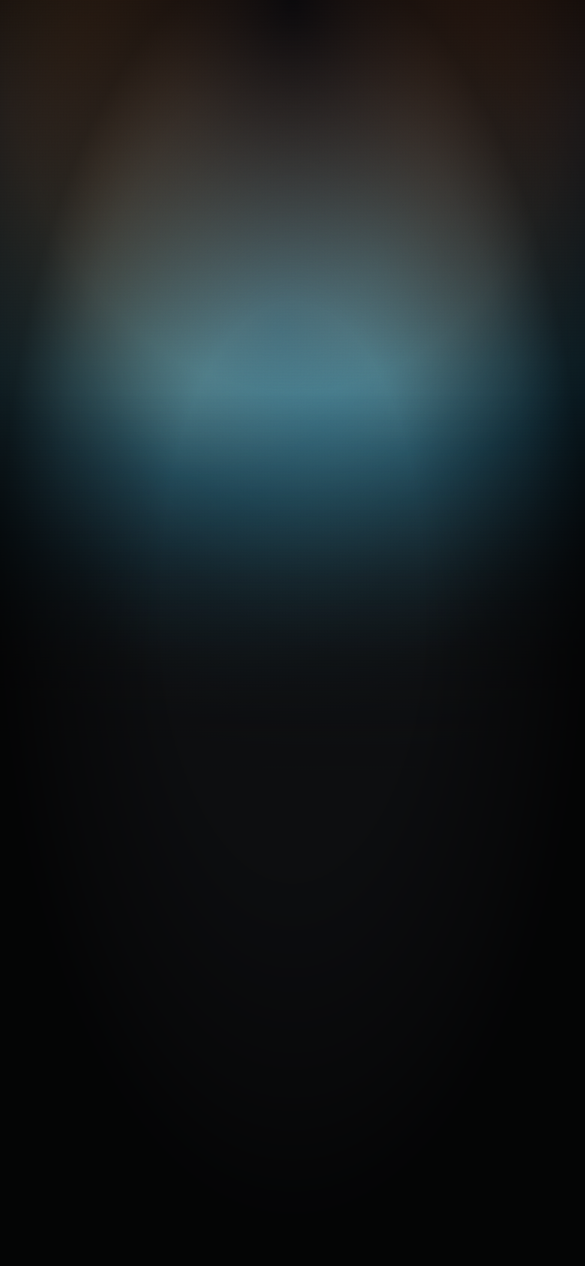
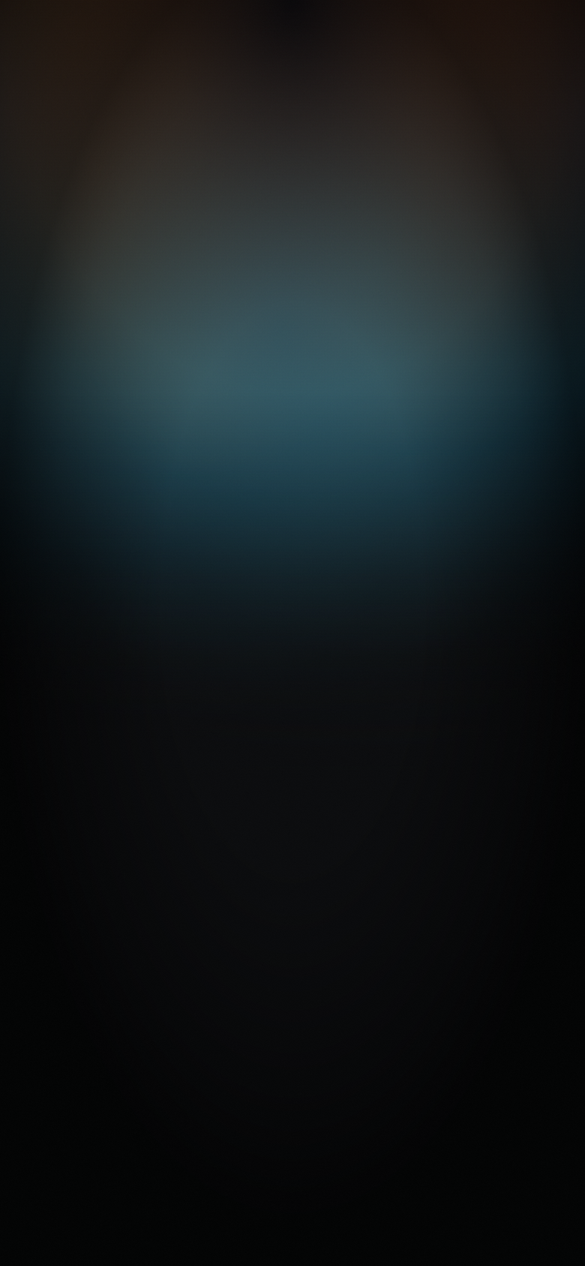
Two skies to choose from: the first, drawn live, and the second, the welcome's picture with its glow turned down; chosen in the profile sheet

Changed region(s): [[0.2154, 0.2156, 0.7692, 0.3697]]

diff --git a/mobile/src/components/Sky.tsx b/mobile/src/components/Sky.tsx
@@ -1,0 +1,105 @@
+import { View, useWindowDimensions } from "react-native";
+import Svg, {
+  Defs,
+  G,
+  LinearGradient,
+  Mask,
+  RadialGradient,
+  Rect,
+  Stop,
+} from "react-native-svg";
+
+/**
+ * The hour the home arrives at.
+ *
+ * A storm closing the top, a break of fire under it, and water below catching what
+ * gets through — eleven lights over one vertical gradient, faded out before it
+ * reaches the cards so they sit on the room rather than on the picture. It is the
+ * same set of gradients the web paints, drawn here as rectangles because React
+ * Native has no radial gradient of its own.
+ *
+ * The fade is applied to all of it at once rather than to each layer. Masking them
+ * one by one compounds: every layer gets faded, and wherever two overlap the fade
+ * multiplies, so the whole picture came out washed and flat — which is exactly what
+ * it looked like.
+ *
+ * Only three screens wear it: the home, the wallet and the accounts screen. They are
+ * places you arrive at rather than work in, and the cards sit badly on flat charcoal.
+ */
+
+/** cx, cy, rx, ry as fractions of the band; CSS states width and height, so these halve. */
+const LIGHTS: { cx: number; cy: number; rx: number; ry: number; rgb: string; a: number }[] = [
+  /* cloud edges catching the light */
+  { cx: 0.31, cy: 0.11, rx: 0.29, ry: 0.025, rgb: "255,182,104", a: 0.54 },
+  { cx: 0.73, cy: 0.08, rx: 0.21, ry: 0.02, rgb: "255,134,52", a: 0.48 },
+  { cx: 0.54, cy: 0.16, rx: 0.34, ry: 0.02, rgb: "255,104,38", a: 0.34 },
+  { cx: 0.17, cy: 0.21, rx: 0.18, ry: 0.015, rgb: "255,156,76", a: 0.26 },
+  /* the break of fire they sit on */
+  { cx: 0.47, cy: 0.13, rx: 0.44, ry: 0.065, rgb: "255,112,38", a: 0.42 },
+  /* water below, lit where the sky breaks */
+  { cx: 0.64, cy: 0.34, rx: 0.24, ry: 0.04, rgb: "128,214,220", a: 0.3 },
+  { cx: 0.26, cy: 0.43, rx: 0.2, ry: 0.035, rgb: "84,182,202", a: 0.28 },
+  { cx: 0.58, cy: 0.5, rx: 0.28, ry: 0.045, rgb: "96,190,206", a: 0.22 },
+  { cx: 0.48, cy: 0.42, rx: 0.34, ry: 0.1, rgb: "38,118,156", a: 0.46 },
+  /* the storm that closes the top */
+  { cx: 0.5, cy: 0, rx: 0.6, ry: 0.085, rgb: "8,12,22", a: 0.9 },
+];
+
+export default function Sky() {
+  const { height } = useWindowDimensions();
+  const band = height * 0.62;
+
+  return (
+    <View
+      pointerEvents="none"
+      style={{ position: "absolute", top: 0, left: 0, right: 0, height: band }}
+    >
+      <Svg width="100%" height="100%">
+        <Defs>
+          <LinearGradient id="sky-base" x1="0" y1="0" x2="0" y2="1">
+            <Stop offset="0" stopColor="#080d18" />
+            <Stop offset="0.14" stopColor="#16233c" />
+            <Stop offset="0.32" stopColor="#123048" />
+            <Stop offset="0.46" stopColor="#114058" />
+            <Stop offset="0.62" stopColor="#0e2a3a" />
+            <Stop offset="0.84" stopColor="#0D0E10" stopOpacity={0.88} />
+            <Stop offset="1" stopColor="#0D0E10" />
+          </LinearGradient>
+
+          {LIGHTS.map((l, i) => (
+            <RadialGradient
+              key={i}
+              id={`sky${i}`}
+              cx={String(l.cx)}
+              cy={String(l.cy)}
+              rx={String(l.rx)}
+              ry={String(l.ry)}
+            >
+              <Stop offset="0" stopColor={`rgb(${l.rgb})`} stopOpacity={l.a} />
+              <Stop offset="1" stopColor={`rgb(${l.rgb})`} stopOpacity={0} />
+            </RadialGradient>
+          ))}
+
+          {/* It has to be gone before the cards start, or they read as sitting on a
+              photograph rather than in a room. */}
+          <LinearGradient id="sky-fade" x1="0" y1="0" x2="0" y2="1">
+            <Stop offset="0" stopColor="#fff" stopOpacity={1} />
+            <Stop offset="0.5" stopColor="#fff" stopOpacity={1} />
+            <Stop offset="0.74" stopColor="#fff" stopOpacity={0.42} />
+            <Stop offset="1" stopColor="#fff" stopOpacity={0} />
+          </LinearGradient>
+          <Mask id="sky-mask">
+            <Rect x="0" y="0" width="100%" height="100%" fill="url(#sky-fade)" />
+          </Mask>
+        </Defs>
+
+        <G mask="url(#sky-mask)">
+          <Rect x="0" y="0" width="100%" height="100%" fill="url(#sky-base)" />
+          {LIGHTS.map((_, i) => (
+            <Rect key={i} x="0" y="0" width="100%" height="100%" fill={`url(#sky${i})`} />
+          ))}
+        </G>
+      </Svg>
+    </View>
+  );
+}

diff --git a/mobile/src/components/Room.tsx b/mobile/src/components/Room.tsx
@@ -2,16 +2,19 @@ import { type ReactNode } from "react";
 import { View, type ViewStyle } from "react-native";
 import Svg, { Defs, RadialGradient, Rect, Stop } from "react-native-svg";
 import { Image } from "expo-image";
+import Sky from "~/components/Sky";
+import { useSkyModel } from "~/lib/skyModel";
 import { GROUND, GROUND_LIT } from "~/theme/tokens";
 
 /**
- * The hour the home arrives at, as a picture.
+ * The second sky: the hour as a picture.
  *
- * It was eleven radial lights, a mask and a vignette drawn live, and a phone did not
- * draw them the way the web does: the welcome looked one way in the browser and
+ * The first is eleven radial lights, a mask and a vignette drawn live, and a phone did
+ * not draw them the way the web does: the welcome looked one way in the browser and
  * another in the hand. This is that same drawing, taken once from the web and fixed,
- * so every phone shows the same sky. It already carries its own vignette, which is
- * why the sky screens draw none over it.
+ * so every phone shows the same sky, with its brightest part held back a little so
+ * cards passing over the glow do not change under it. It already carries its own
+ * vignette, which is why it is drawn without the one the first sky needs.
  */
 // eslint-disable-next-line @typescript-eslint/no-require-imports
 const HOUR = require("../../assets/sky.png") as number;
@@ -59,14 +62,17 @@ export default function Room({
 }) {
   /* Turned down is not a different picture, only a quieter one. */
   const strength = lit ? 1 : 0.45;
+  const [model] = useSkyModel();
+  const picture = sky && model === "2";
 
   return (
     <View style={[{ flex: 1, backgroundColor: lit ? GROUND_LIT : GROUND }, style]}>
-      {sky && <Image source={HOUR} contentFit="fill" pointerEvents="none" style={{ position: "absolute", top: 0, left: 0, right: 0, bottom: 0 }} />}
+      {sky && !picture && <Sky />}
+      {picture && <Image source={HOUR} contentFit="fill" pointerEvents="none" style={{ position: "absolute", top: 0, left: 0, right: 0, bottom: 0 }} />}
 
       {/* Both the box and the drawing have to be told to fill: left to itself the
           canvas takes its intrinsic size and the light stops partway down. */}
-      {!sky && (
+      {!picture && (
       <Svg
         width="100%"
         height="100%"

diff --git a/mobile/src/components/ProfileSheet.tsx b/mobile/src/components/ProfileSheet.tsx
@@ -6,6 +6,7 @@ import BottomSheet from "~/components/BottomSheet";
 import SegmentedTabs from "~/components/SegmentedTabs";
 import { LogOut } from "~/components/icons";
 import { useHomeHero } from "~/lib/homeHero";
+import { useSkyModel } from "~/lib/skyModel";
 import { useAuth } from "~/lib/auth";
 import { INK, RED } from "~/theme/tokens";
 
@@ -36,6 +37,7 @@ export default function ProfileSheet({
 }) {
   const { user, signOut } = useAuth();
   const [hero, setHero] = useHomeHero();
+  const [skyModel, setSkyModel] = useSkyModel();
   const [asking, setAsking] = useState(false);
   const [leaving, setLeaving] = useState(false);
 
@@ -96,6 +98,23 @@ export default function ProfileSheet({
             options={[
               { key: "orb" as const, label: "Orbe" },
               { key: "stories" as const, label: "Stories" },
+            ]}
+          />
+        </View>
+
+        {/* The sky behind the screens that wear one. */}
+        <View style={{ marginTop: 22 }}>
+          <Text style={{ fontSize: 11.5, fontWeight: "600", letterSpacing: 1.3, textTransform: "uppercase", color: INK.softer, marginBottom: 10 }}>
+            Fundo
+          </Text>
+          <SegmentedTabs
+            compact
+            height={36}
+            value={skyModel}
+            onChange={setSkyModel}
+            options={[
+              { key: "1" as const, label: "Modelo 1" },
+              { key: "2" as const, label: "Modelo 2" },
             ]}
           />
         </View>

diff --git a/mobile/src/lib/skyModel.ts b/mobile/src/lib/skyModel.ts
@@ -1,0 +1,48 @@
+import { useSyncExternalStore } from "react";
+
+/**
+ * Which sky the screens that wear one are wearing.
+ *
+ * 1 is the first: drawn live, the hour with its fire and its water. 2 is the picture
+ * taken from the welcome, with the glow turned down so cards pass over it quietly.
+ * Both are kept so the person can choose, and the choice stays on the phone. It is read
+ * from the same synchronous store as the home's top, so the screen opens already on
+ * the one that was chosen rather than changing under the eye.
+ */
+
+export type SkyModel = "1" | "2";
+
+const KEY = "sky-model";
+const listeners = new Set<() => void>();
+
+const read = (): SkyModel => {
+  try {
+    return localStorage.getItem(KEY) === "1" ? "1" : "2";
+  } catch {
+    return "2";
+  }
+};
+
+let current: SkyModel = read();
+
+export function setSkyModel(next: SkyModel) {
+  current = next;
+  try {
+    localStorage.setItem(KEY, next);
+  } catch {
+    /* Kept for this session only. */
+  }
+  listeners.forEach((l) => l());
+}
+
+const subscribe = (l: () => void) => {
+  listeners.add(l);
+  return () => {
+    listeners.delete(l);
+  };
+};
+
+export function useSkyModel() {
+  const model = useSyncExternalStore(subscribe, () => current, () => current);
+  return [model, setSkyModel] as const;
+}
